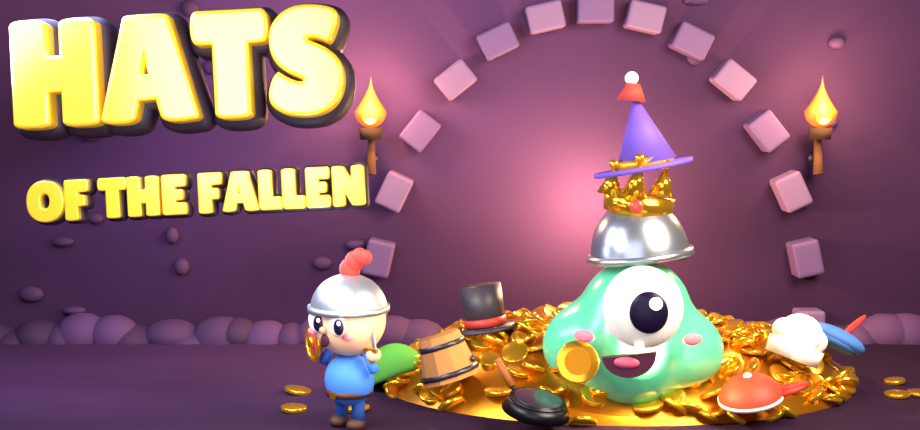
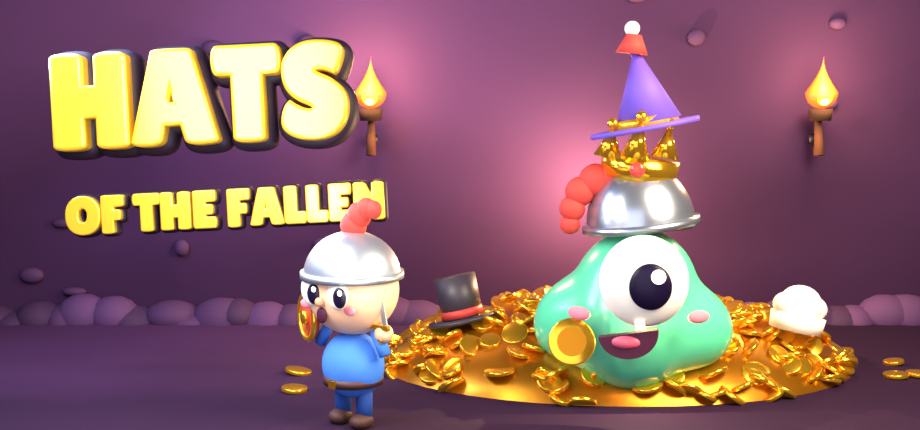
Mila: capsule ronde 4 na Daans keuring (pluim, titel vrij, minder dingen, klein opgeschoond), bericht aan Daan, logboek
Claude-Session: https://claude.ai/code/session_01RMWUygFMSHXN2DvYGGDMNG

diff --git a/ontwerp/steam/capsule-3d/capsule3d.py b/ontwerp/steam/capsule-3d/capsule3d.py
@@ -73,22 +73,17 @@ ROBIJN = g.mat("robijn", "rood", rough=0.08, spec=1.0, emis=0.4)
 SAFIER = g.mat("safier", "4fa3ff", rough=0.08, spec=1.0, emis=0.4)
 
 KLEIN = VARIANT == "klein"
-GX = 2.35 if not KLEIN else 3.4          # Gloop rechts van het midden
-RX = -0.95 if not KLEIN else 0.2        # ridder
+GX = 2.35 if not KLEIN else 3.5         # Gloop rechts van het midden
+RX = -0.85 if not KLEIN else 0.9       # ridder
+RY = -2.2 if not KLEIN else -1.6
+RS = 1.2 if not KLEIN else 1.3
 
 # ---------- achterwand met boog (de schatkamer) en vloer ----------
 bpy.ops.mesh.primitive_plane_add(size=1, location=(0, 3.2, 3)); o = bpy.context.object
 o.scale = (30, 14, 1); o.rotation_euler = (math.radians(90), 0, 0); kies(o, WAND)
 bpy.ops.mesh.primitive_plane_add(size=1, location=(0, 0, 0)); o = bpy.context.object
 o.scale = (30, 14, 1); kies(o, VLOER)
-# stenen boog achter Gloop: een ring van afgeronde blokken, half in de wand
-for i in range(15):
-    a = math.radians(180 * i / 14)
-    x = GX + 3.4 * math.cos(a); z = 0.2 + 4.9 * math.sin(a)
-    bpy.ops.mesh.primitive_cube_add(size=1, location=(x, 3.05, z)); s = bpy.context.object
-    s.scale = (0.55, 0.4, 0.42); s.rotation_euler = (0, -a + math.pi / 2, 0)
-    bv = s.modifiers.new("r", "BEVEL"); bv.width = 0.1; bv.segments = 3
-    kies(s, STEEN if i % 2 == 0 else g.mat("steen_d", "65497a", rough=0.65))
+# ronde 4: stenen boog weg (las als los roze confetti, geen boog)
 # rotsen langs de voet van de wand (geen harde lijn tussen vloer en wand)
 for i in range(40):
     x = -7.5 + i * 0.4 + random.uniform(-0.1, 0.1)
@@ -123,8 +118,12 @@ def fakkel(x, z, y=2.9, kracht=260, groot=1.6):
     d = bpy.data.lights.new("fakkellicht", "POINT"); d.color = (1.0, 0.6, 0.28); d.energy = kracht; d.shadow_soft_size = 0.3
     l = bpy.data.objects.new("fakkellicht", d); l.location = (x, y - 0.6, zv + 0.5); sc.collection.objects.link(l)
 
-fakkel(GX - 3.4, 3.1)
-fakkel(GX + 3.4, 3.1)
+if not KLEIN:   # ronde 4: klein zonder fakkels, minder dingen
+    fakkel(GX - 3.4, 3.1)
+    fakkel(GX + 3.4, 3.1)
+else:
+    lamp_k = bpy.data.lights.new("wandwarm", "POINT"); lamp_k.color = (1.0, 0.6, 0.28); lamp_k.energy = 500
+    lk = bpy.data.objects.new("wandwarm", lamp_k); lk.location = (GX, 2.0, 3.5); sc.collection.objects.link(lk)
 
 # ---------- de schat: een berg munten onder en rond Gloop ----------
 bpy.ops.mesh.primitive_uv_sphere_add(segments=48, ring_count=24, location=(GX, 0.5, -0.4)); berg = bpy.context.object
@@ -165,7 +164,7 @@ voor = set(bpy.data.objects)
 bron = open(os.path.join(MOD, "gloop.py"), encoding="utf-8").read()
 begin = bron.index("# ---------- lijf"); eind = bron.index("# ---------- camera")
 ns = {"bpy": bpy, "g": g, "math": math, "sc": sc, "VERSIE": 2, "HOEDEN": 4, "sys": sys, "os": os,
-      "STAND": os.environ.get("CAPSULE_STAND", "rust")}
+      "STAND": os.environ.get("CAPSULE_STAND", "rust"), "PLUIM_KNAK": True}
 exec(bron[bron.index("def bol("):begin], ns)
 exec(bron[begin:eind], ns)
 GS = 1.95
@@ -182,17 +181,21 @@ for o in list(sc.objects):
     if o.name.startswith("gloop_") and o.parent is None and o is not anker:
         mw = o.matrix_world.copy(); o.parent = anker; o.matrix_world = mw
 anker.rotation_euler = (0, 0, math.radians(-12))
+# ronde 4: Gloop met toren groter, hij is de ster (via het anker: GS hierboven telt niet mee, matrix_world is daar nog oud)
+GROOT = 1.1 if not KLEIN else 1.15
+anker.scale = (GROOT, GROOT, GROOT)
 
 # ---------- de ridder: komt binnen en schrikt ----------
 import held
-held.bouw("ridder", "schrik", plek=(RX, -1.6, 0.0), draai=38, schaal=1.0, gloed=30, rand=60)
+# ronde 4: groter en dichterbij, zodat de grap (zijn helm, zijn pluim, op Gloop) sneller valt
+held.bouw("ridder", "schrik", plek=(RX, RY, 0.0), draai=38, schaal=RS, gloed=30, rand=60)
 
 # ---------- de hoedenberg: in het spel draagt Gloop er 4, de rest ligt op de berg (toets_held.gd) ----------
 import hoeden
-for nr, x, y, z, k, d in [(6, GX - 2.15, -0.9, 0.38, -18, 20), (5, GX + 2.0, -0.6, 0.55, 22, -15),
-                          (8, GX - 1.2, -1.75, 0.22, 12, 40), (3, GX + 1.25, -1.6, 0.32, -14, -30),
-                          (9, GX + 2.75, 0.2, 0.55, 28, -20), (2, GX - 2.9, 0.1, 0.2, -25, 30),
-                          (7, GX - 1.7, 0.35, 0.72, -10, 25)]:
+BERG = [(7, GX - 2.0, 0.2, 0.62, -14, 25), (5, GX + 2.15, -0.3, 0.6, 12, -20)]   # pet weg: las als rood bord
+if KLEIN:
+    BERG = []
+for nr, x, y, z, k, d in BERG:
     hoeden.bouw(nr, plek=(x, y, z), schaal=0.85, kantel=k, draai=d)
 
 # ---------- titel ----------
@@ -211,11 +214,11 @@ def tekst(woord, loc, maat, uitlijn="LEFT", kantel=0):
     return o
 
 if KLEIN:
-    tekst("HATS", (-5.1, -0.6, 2.3), 2.3, kantel=-3)
-    tekst("OF THE FALLEN", (-5.0, -0.6, 1.32), 0.9, kantel=-3)
+    tekst("HATS", (-4.75, -0.6, 1.85), 2.0, kantel=-3)
+    tekst("OF THE FALLEN", (-4.7, -0.6, 0.98), 0.86, kantel=-3)
 else:
-    tekst("HATS", (-5.0, -0.6, 3.0), 1.95, kantel=-3)
-    tekst("OF THE FALLEN", (-4.9, -0.6, 2.1), 0.74, kantel=-3)
+    tekst("HATS", (-4.55, -0.6, 2.55), 1.75, kantel=-3)
+    tekst("OF THE FALLEN", (-4.45, -0.6, 1.72), 0.7, kantel=-3)
 
 # ---------- licht ----------
 def lamp(naam, soort, loc, kleur, kracht, grootte=1.0, doel=(0, 0, 1.0)):
@@ -228,7 +231,7 @@ def lamp(naam, soort, loc, kleur, kracht, grootte=1.0, doel=(0, 0, 1.0)):
     return o
 
 lamp("sleutel", "AREA", (GX + 3.5, -5.0, 6.0), (1.0, 0.82, 0.6), 1600, 4.0, (GX, 0.3, 1.5))
-lamp("koel", "AREA", (-5.0, -1.0, 5.0), (0.55, 0.62, 1.0), 500, 3.0, (RX, -1.6, 1.0))
+lamp("koel", "AREA", (-5.0, -1.0, 5.0), (0.55, 0.62, 1.0), 500, 3.0, (RX, RY, 1.0))
 lamp("vul", "AREA", (-1.0, -8.0, 2.5), (0.85, 0.85, 1.0), 260, 6.0, (0, 0, 1.5))
 lamp("titellamp", "AREA", (-3.0, -4.0, 4.5), (1.0, 0.95, 0.85), 500, 3.0, (-3.0, -0.6, 2.4))
 lamp("schatgloed", "POINT", (GX, -1.8, 0.9), (1.0, 0.75, 0.35), 160)
@@ -239,7 +242,7 @@ sc.world.node_tree.nodes["Background"].inputs["Color"].default_value = (0.03, 0.
 # ---------- camera ----------
 cam = bpy.data.cameras.new("cam"); cam.lens = 42; cam.sensor_fit = "HORIZONTAL"; cam.sensor_width = 36
 co = bpy.data.objects.new("cam", cam); sc.collection.objects.link(co); sc.camera = co
-doel = Vector((0.3, 0.6, 2.2)) if not KLEIN else Vector((0.45, 0.6, 2.1))
+doel = Vector((0.3, 0.6, 1.95)) if not KLEIN else Vector((0.45, 0.6, 2.0))
 co.location = (0.3, -13.5, 3.6) if not KLEIN else (0.45, -13.5, 3.5)
 co.rotation_euler = (doel - Vector(co.location)).to_track_quat("-Z", "Y").to_euler()
 if KLEIN:

diff --git a/ontwerp/steam/capsule-3d/LEESMIJ.md b/ontwerp/steam/capsule-3d/LEESMIJ.md
@@ -40,3 +40,20 @@ Frisse kijker (alleen de header en de rij met toppers), letterlijk: "Rechts zit 
 3. Hoofdbeeld 1232x706 en bibliotheek 600x900 (staand: toren past daar juist goed).
 4. Idee uit de oude pixelcapsule terughalen: kleine hoeden op de letters van HATS (klein-oud-nieuw.png links). Dat maakt de titel zelf de grap.
 5. Daan keurt op fouten en leesbaarheid.
+
+## Ronde 4 (14 nov ±09:00 UTC, na Daans keuring van 06:35)
+Alle vier moets van Daan gedaan in `capsule3d.py`:
+1. **Helmgrap:** `"PLUIM_KNAK": True` naar `gloop.py`; Gloops helm draagt nu dezelfde rode pluim als de ridder.
+2. **Titel vrij van de rand:** HATS kleiner en naar binnen. Gemeten op de header (GEZIEN): links ±50 px, boven ±45 px. Klein: links ±38 px, boven ±30 px.
+3. **Niets afgesneden, alleen dingen die lezen:** stenen boog weg (las als confetti), kap, pan, emmer, pet en veermuts weg. Op de berg alleen nog de hoge hoed en de koksmuts, beide binnen het vak. De ridder groter (1,2) en dichterbij, voeten in beeld; de camera kijkt iets lager.
+4. **Klein:** geen fakkels en geen losse hoeden, Gloop met toren groter, ondertitel groter (0,86), ridder tussen titel en Gloop.
+- **Fout gevonden en omzeild:** `GS` (de grootte van Gloop) telde nooit mee: de lus zet locatie en schaal, maar daarna leest het anker `matrix_world` voordat Blender die bijwerkt. Gloop vergroten gaat nu via `anker.scale` (`GROOT`, header 1,1, klein 1,15). `GS` laat ik staan zodat de plek gelijk blijft.
+- `header-ronde2-920x430.png`, `klein-ronde2-462x174.png`: ronde 2 ter vergelijking. `voor-na-ronde2-ronde4.png`: boven groot, onder klein, links ronde 2, rechts ronde 4.
+- **Frisse kijker** (alleen header en klein), letterlijk: "het monster verzamelt de hoeden van gevallen avonturiers, en het jochie is de volgende ... De helm met rode pluim onderaan de stapel is precies dezelfde als die van het ridderjongetje", na 3 tot 5 seconden. Klein: "HATS lees je goed, OF THE FALLEN kun je nog net lezen ... de kroon en de helm lopen in elkaar over, en dat de helmen hetzelfde zijn zie je op dit formaat niet meer." Wat niet leest: de koksmuts ("slagroom of een wolkje?"), het mesje, de kroon lijkt "een hoopje munten". Cijfer groot 7 (was 7 bij Daans proef, 5 tot 6 bij ronde 2), klein 6 (was 5).
+- GEZIEN met Read: header, klein, voor/na. Eigen oordeel: één helder beeld nu, rustiger en rijker. Nog niet genoeg: op klein valt de grap weg.
+
+## Volgende ronde
+1. **Klein: de grap moet op 174 px leven.** Idee: in klein alleen helm en kroon op Gloop (2 hoeden), helm groot en met pluim vooraan, de ridder met dezelfde pluim even groot ernaast. Of: de pluimen extra fel rood en dikker in klein.
+2. Kroon: minder glans of strakkere punten, zodat hij niet als munten leest.
+3. Koksmuts: duidelijker (hogere band, plooien) of vervangen door een hoed die meteen leest (de heksenhoed staat al op de toren; misschien de hoge hoed alleen).
+4. Hoedjes op de letters van HATS (oude pixelcapsule), daarna hoofdbeeld 1232x706 en bibliotheek 600x900.
